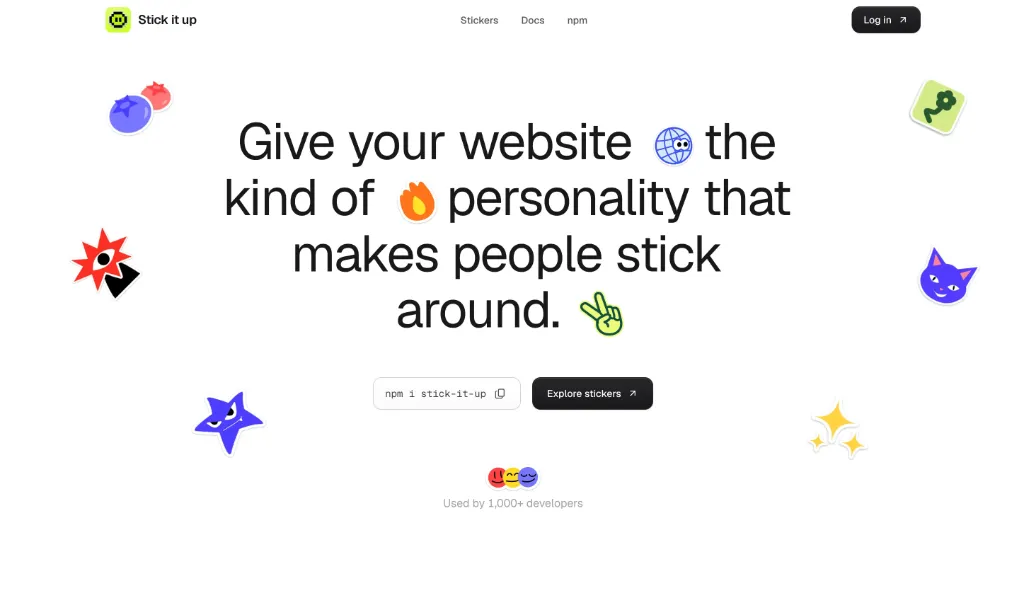
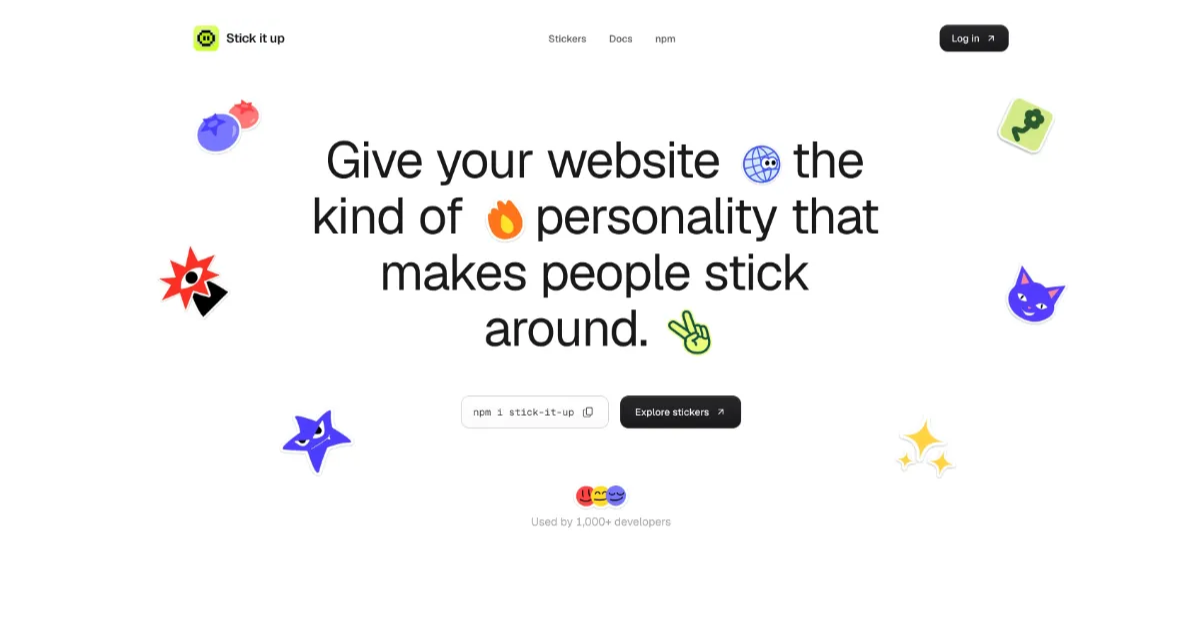
fix og

diff --git a/app/layout.tsx b/app/layout.tsx
@@ -12,7 +12,13 @@ const geistMono = Geist_Mono({
   subsets: ["latin"],
 });
 
-const siteUrl = process.env.NEXT_PUBLIC_SITE_URL || "https://stickitup.vercel.app";
+const siteUrl =
+  process.env.NEXT_PUBLIC_SITE_URL ||
+  (process.env.VERCEL_PROJECT_PRODUCTION_URL
+    ? `https://${process.env.VERCEL_PROJECT_PRODUCTION_URL}`
+    : process.env.VERCEL_URL
+    ? `https://${process.env.VERCEL_URL}`
+    : "https://stickitupp.vercel.app");
 
 export const metadata: Metadata = {
   metadataBase: new URL(siteUrl),
@@ -58,17 +64,10 @@ export const metadata: Metadata = {
     images: [
       {
         url: "/og-image.png",
-        width: 1024,
-        height: 593,
+        width: 1200,
+        height: 630,
         alt: "Stick It Up — Give your website the kind of personality that makes people stick around.",
         type: "image/png",
-      },
-      {
-        url: "/og-image.webp",
-        width: 1024,
-        height: 593,
-        alt: "Stick It Up — Give your website the kind of personality that makes people stick around.",
-        type: "image/webp",
       },
     ],
   },

diff --git a/app/robots.ts b/app/robots.ts
@@ -1,7 +1,13 @@
 import type { MetadataRoute } from "next";
 
 export default function robots(): MetadataRoute.Robots {
-  const baseUrl = process.env.NEXT_PUBLIC_SITE_URL || "https://stickitup.vercel.app";
+  const baseUrl =
+    process.env.NEXT_PUBLIC_SITE_URL ||
+    (process.env.VERCEL_PROJECT_PRODUCTION_URL
+      ? `https://${process.env.VERCEL_PROJECT_PRODUCTION_URL}`
+      : process.env.VERCEL_URL
+      ? `https://${process.env.VERCEL_URL}`
+      : "https://stickitupp.vercel.app");
 
   return {
     rules: {

diff --git a/app/sitemap.ts b/app/sitemap.ts
@@ -1,7 +1,13 @@
 import type { MetadataRoute } from "next";
 
 export default function sitemap(): MetadataRoute.Sitemap {
-  const baseUrl = process.env.NEXT_PUBLIC_SITE_URL || "https://stickitup.vercel.app";
+  const baseUrl =
+    process.env.NEXT_PUBLIC_SITE_URL ||
+    (process.env.VERCEL_PROJECT_PRODUCTION_URL
+      ? `https://${process.env.VERCEL_PROJECT_PRODUCTION_URL}`
+      : process.env.VERCEL_URL
+      ? `https://${process.env.VERCEL_URL}`
+      : "https://stickitupp.vercel.app");
 
   return [
     {

diff --git a/app/stickers/layout.tsx b/app/stickers/layout.tsx
@@ -12,9 +12,10 @@ export const metadata: Metadata = {
     images: [
       {
         url: "/og-image.png",
-        width: 1024,
-        height: 593,
+        width: 1200,
+        height: 630,
         alt: "Stick It Up — Stickers & Badges Catalog",
+        type: "image/png",
       },
     ],
   },
